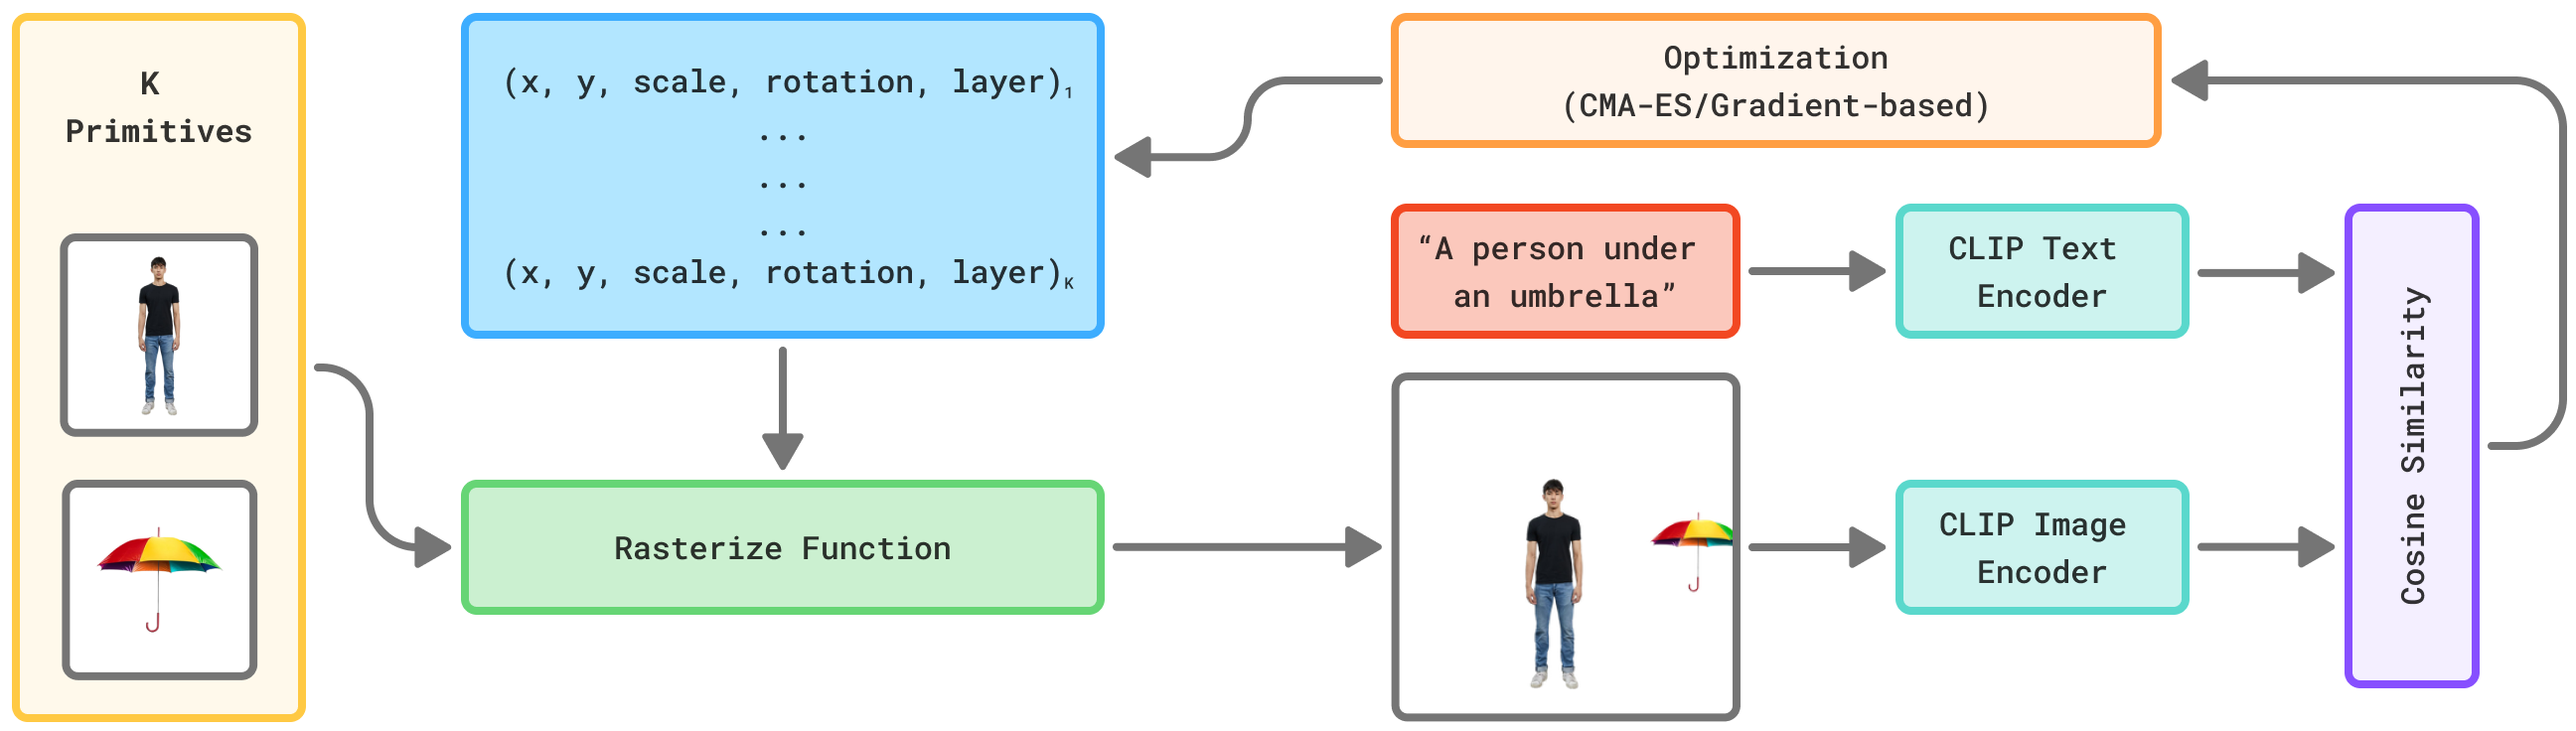
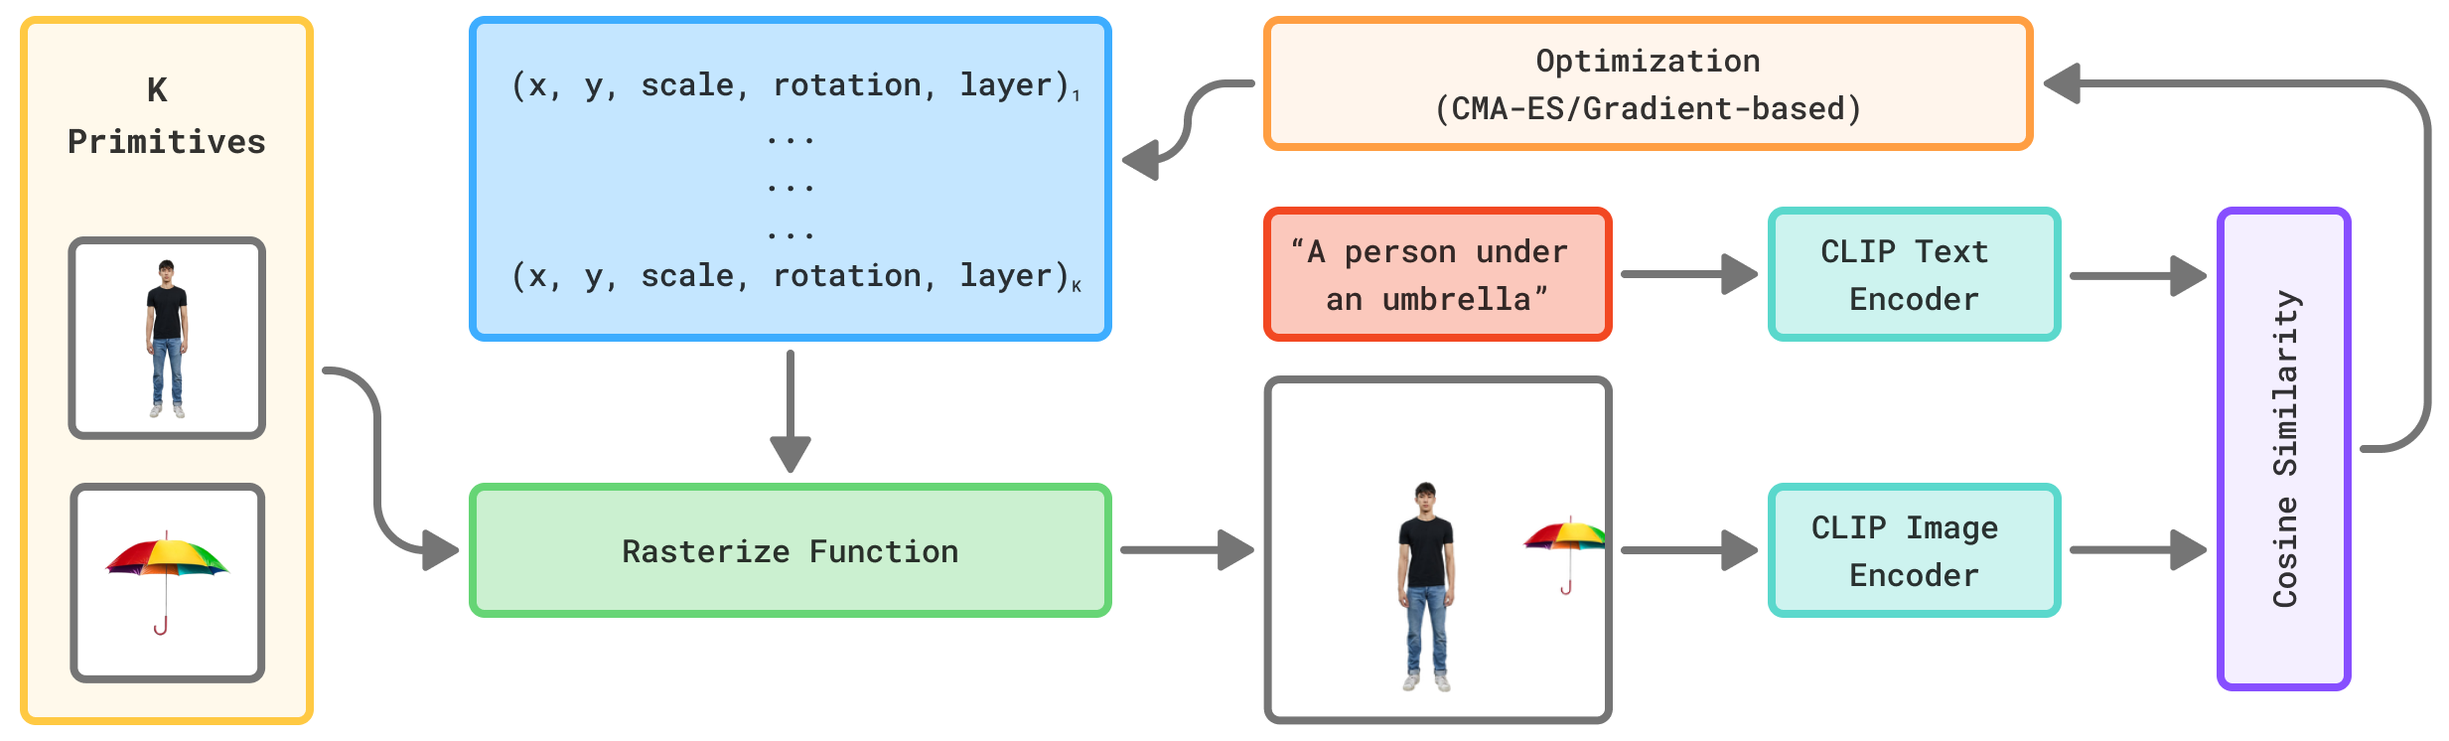
Init Report section and improve other sections

Changed region(s): [[0.0, 0.0, 0.9992, 1.0], [0.5933, 0.125, 0.7806, 0.1875], [0.6245, 0.0625, 0.7494, 0.0938]]

diff --git a/report/main.tex b/report/main.tex
@@ -64,22 +64,22 @@ Inspired by this work, we want to do something similar by composing visual scene
 % ------------------------------------------------------------------------------
 \section{Method}
 \begin{figure*}[ht]
-  \includegraphics[width=\textwidth]{./src/architecture.png}
-  \caption{The whole pipeline of our method. The prompt is shown in the \textit{red} box, while the two primitives are shown in the \textit{yellow} box.}
-  \label{fig:architecture}
+    \centering
+    \includegraphics[width=0.95\textwidth]{./src/architecture.png}
+    \caption{The whole pipeline of our method. We want the $k$ (in this case $2$) primitives shown in the \textit{yellow} box, to be rasterized to have a similar CLIP embedding as the prompt, shown in the \textit{red} box.}
+    \label{fig:architecture}
 \end{figure*}
 
 In order to stitch together $k$ primitives to form a scene, we need to define a few components: the scene configuration and the optimization strategy.
 
 \subsection{Scene Configuration \& Pipeline}
-We represent a scene configuration as a matrix of shape $\left(k, 5\right)$, where each row corresponds to one primitive and the five parameters describe its spatial attributes:  
+We represent a scene configuration as a matrix of shape $\left(k, 5\right)$ and each entry is bounded to be in the $[0, 1]$ range. Each row corresponds to one primitive and the five parameters describe its spatial attributes.   
 \begin{itemize}
-    \item \textbf{x, y}: the position of the primitive on the canvas;
-    \item \textbf{scale}: the relative size of the primitive;
-    \item \textbf{rotation}: the angle of rotation;
-    \item \textbf{layer}: the rendering order (i.e., which primitives appear in front).
+    \item \textbf{x, y}: the position of the top-right corner of the primitive with respect to the canvas size;
+    \item \textbf{scale}: the relative size of the primitive (i.e. a percentage of the full primitive size);
+    \item \textbf{rotation}: the angle of rotation, $0-365$ degrees normalized;
+    \item \textbf{layer}: the rendering order (i.e., which primitives appear in front). We order the rasterization process, such that primitives with smaller layer parameter will be rasterized first, hence be in the back.
 \end{itemize}
-Each parameter is bounded to be in the $[0, 1]$ range.
 We created a \texttt{rasterize} function, which uses these parameters and the primitives to compose the scene and rasterizes it into an image. This image is then fed into CLIP’s image encoder to compute its embedding. The cosine similarity between this image embedding and the text embedding of the target concept serves as the objective function.
 An overview of this pipeline is shown in Figure~\ref{fig:architecture}.
 
@@ -88,15 +88,23 @@ An overview of this pipeline is shown in Figure~\ref{fig:architecture}.
 To find a good configuration of the primitives, we first adopted a gradient-free optimization strategy using \textit{Covariance Matrix Adaptation Evolution Strategy}~\cite{hansen1996adapting} (CMA-ES). This algorithm iteratively samples configurations, evaluates them using the cosine similarity score, and updates a multivariate Gaussian distribution to bias future samples toward more promising regions in the search space.
 
 \subsection{Gradient-Based Approach}
-In parallel, we also experimented with a gradient-based optimization method. We created a \texttt{differentiable\_rasterize} function, which has some limitations: rotating the primitives was pretty hard, so we decided to implment it only if a preliminary test would have been promising. This function allowed us to compute gradients of the cosine similarity loss with respect to the primitive parameters and apply gradient descent to improve the layout.
+In parallel, we also experimented with a gradient-based optimization method. We created a new rasterization function which is differentiable and has some limitations: rotating the primitives was pretty hard, so we decided to implment it only if a preliminary test would have been promising. This function allowed us to compute gradients of the cosine similarity loss with respect to the primitive parameters and apply gradient descent to improve the layout.
 
 \subsection{Loss Function Exploration}
 After many experiments we found out that both methods often became stuck in poor local optima, so we decided to explore the loss function's landscape. This eventually led us to explore modifications to the loss in an effort to change the optimization surface, as detailed in the next section.
 
 % ------------------------------------------------------------------------------
 \section{Results}
+In this section we will report the results of each method individually, then some common improvements we applied to both of them and finally we will show the loss exploration we talked about in the previous section.
 
-TODO
+\subsection{Default approach}
+This approach is the one we implemented first, using the \texttt{CMA-ES} python library.
+For the gradient-based approach we just implemented the \texttt{differentiable\_rasterize} function (which operates on PyTorch tensors) and used the \texttt{Adam} optimizer to update the parameters of the primitives. This yielded poor results as shown in the figure. 
+
+\subsection{Loss Exploration}
+After these poor results with both methods, we decided to explore the loss function landscape. We found that the loss function was very noisy and had many local optima, which made it difficult for the optimization algorithms to converge to a good solution. An example is show in the figure. In order to plot the contour plot of the loss function, we choose a simple example "A person under un umbrella", that has two primitives: \textit{person} and \textit{umbrella}. We embedded every combination of $(x, y, scale)$ parameters with values $0.3 , 0.38, 0.46, 0.54, 0.62, 0.7$ for both primitives, while keeping the rotation and layer fixed. The loss function was computed for each combination and plotted in a contour plot. Of course, close points in this space are not guaranteed to be close in the original space, but still this is useful because it shows us how the majority of parameters combination yield the same cosine similarity.
+
+\subsection{Loss Improvements}
 
 
 % ------------------------------------------------------------------------------
